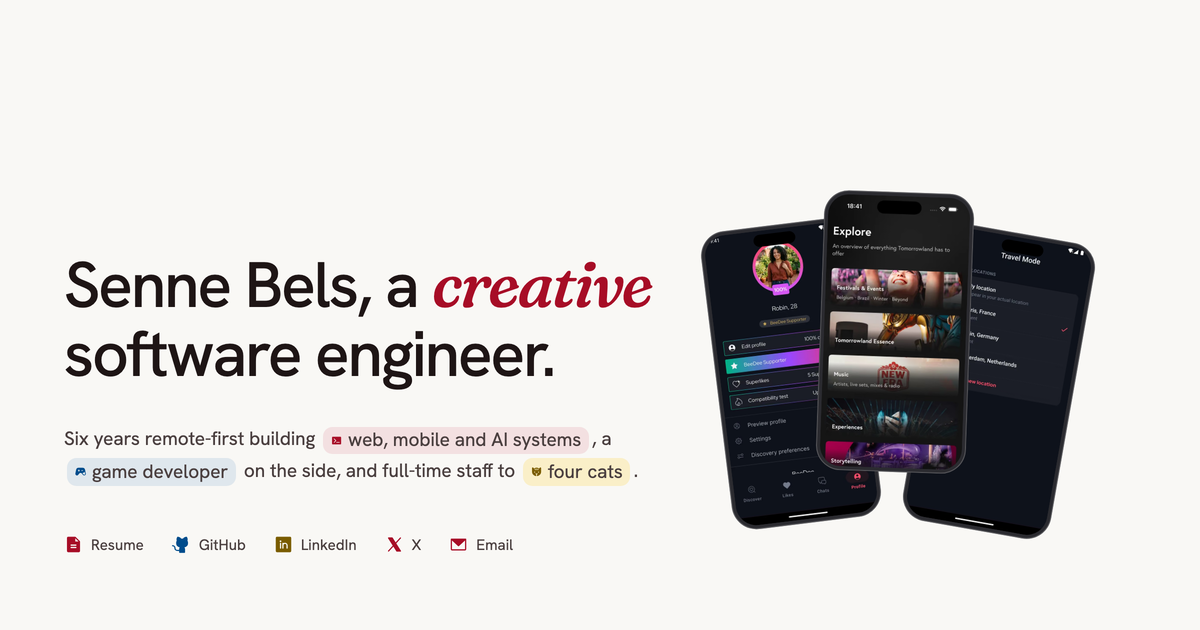
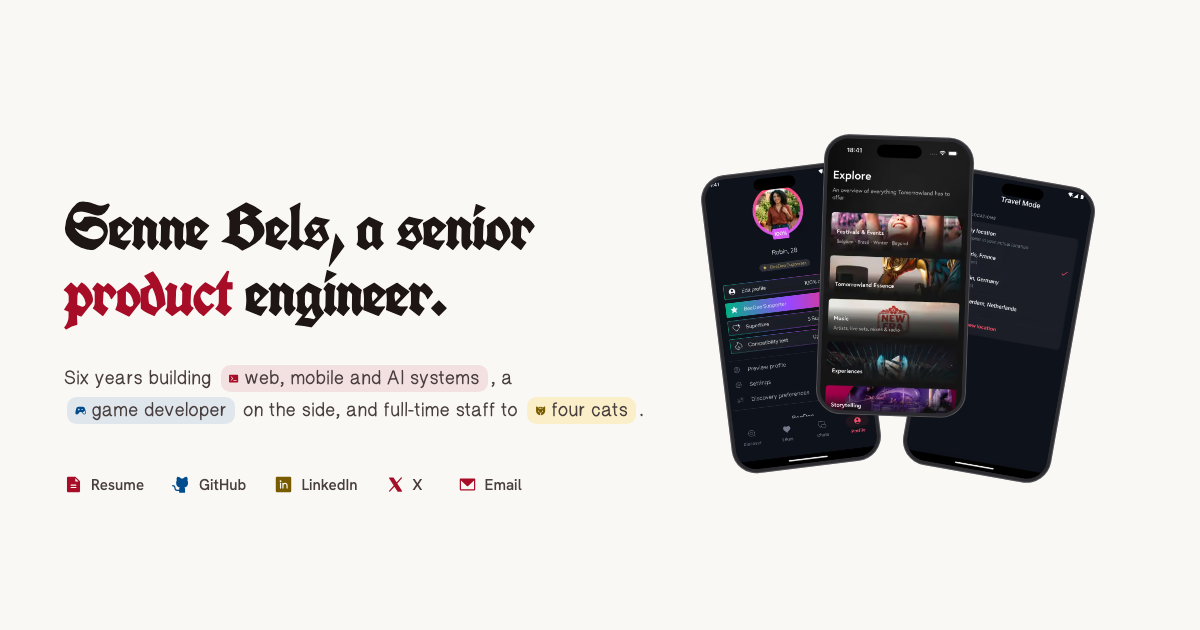
Headline title "Senior product engineer"; PostHog through a first-party proxy
- jobTitle, home H1, meta titles and descriptions, Person summary, about
  and projects intros and llms.txt now say senior product engineer.
  Six years stays, backed by the CV (Okapi Works since April 2020).
- New og.png from the current hero; the old one still said "creative
  software engineer".
- PostHog posts to /ingest, rewritten to the EU host, so ad blockers that
  drop *.posthog.com no longer hide visits. skipTrailingSlashRedirect for
  PostHog's slashed endpoints, with an explicit redirect so /about/ still
  goes to /about.

diff --git a/app/data/portfolio.ts b/app/data/portfolio.ts
@@ -5,9 +5,9 @@ import { PROJECTS, projectPath } from "./projects";
 
 export const PERSON = {
   name: "Senne Bels",
-  jobTitle: "Senior Software Engineer",
+  jobTitle: "Senior Product Engineer",
   tagline:
-    "Senior software engineer. I build things people poke at instead of scroll past, and I have been doing it for six years.",
+    "Senior product engineer. I build things people poke at instead of scroll past, and I have been doing it for six years.",
   email: "sennebels@gmail.com",
   locality: "Antwerp",
   country: "BE",
@@ -18,10 +18,10 @@ export const PERSON = {
   relocation: "Open to relocating abroad",
   // Third person, for schema and llms.txt: the sentence an answer engine quotes about him.
   summary:
-    "Senne Bels is a senior software engineer in Antwerp, Belgium. He builds web, mobile and AI products in TypeScript for clients, and builds and runs products of his own: Transita, Keepr, Penfolk, Stadiq and Korf.",
+    "Senne Bels is a senior product engineer in Antwerp, Belgium. He builds web, mobile and AI products in TypeScript for clients, and builds and runs products of his own: Transita, Keepr, Penfolk, Stadiq and Korf.",
   // The one self-contained passage an answer engine can lift verbatim.
   answerBlock:
-    "I’m Senne, a software engineer from Antwerp. I lead frontend on a platform 140,000 people use, and I work on the Tomorrowland app. Six years of this now, for startups and agencies and once for the Flemish government. The rest of my time goes to products of my own.",
+    "I’m Senne, a senior product engineer from Antwerp. I lead frontend on a platform 140,000 people use, and I work on the Tomorrowland app. Six years of this now, for startups and agencies and once for the Flemish government. The rest of my time goes to products of my own.",
 } as const;
 
 

diff --git a/app/components/analytics.tsx b/app/components/analytics.tsx
@@ -42,10 +42,11 @@ export function PostHogAnalytics() {
     if (!KEY) return;
     if (!posthog.__loaded) {
       posthog.init(KEY, {
-        // US project 356563. The fallback used to name the EU host; an unset
-        // env var now reports to US rather than failing visibly. Production
-        // may still override via NEXT_PUBLIC_POSTHOG_HOST=https://us.i.posthog.com.
-        api_host: process.env.NEXT_PUBLIC_POSTHOG_HOST ?? "https://us.i.posthog.com",
+        // First-party proxy (see next.config.mjs), so ad blockers that
+        // drop *.posthog.com still let the pageview through. ui_host keeps
+        // toolbar links pointing at the real PostHog app.
+        api_host: "/ingest",
+        ui_host: "https://eu.posthog.com",
         // Nothing is written to the visitor's device: no cookie, no
         // localStorage, no sessionStorage. So there is no consent gate and
         // every visitor is counted, not just the ones who would accept one.

diff --git a/app/layout.tsx b/app/layout.tsx
@@ -26,7 +26,7 @@ const fraunces = Fraunces({
 const TITLE = `${PERSON.name}, ${PERSON.jobTitle}`;
 /** Kept under 160 characters: past that, Google truncates it in the result. */
 const DESCRIPTION =
-  "Senior software engineer in Antwerp. Six years remote-first building web, mobile and AI systems in TypeScript, for Tomorrowland, Kaedim and Flanders.";
+  "Senior product engineer in Antwerp. Six years remote-first building web, mobile and AI products in TypeScript, for Tomorrowland, Kaedim and Flanders.";
 
 export const metadata: Metadata = {
   metadataBase: new URL("https://sennebels.com"),
@@ -36,6 +36,7 @@ export const metadata: Metadata = {
   },
   description: DESCRIPTION,
   keywords: [
+    "Senior Product Engineer",
     "Senior Software Engineer",
     "Full-Stack Engineer",
     "AI Engineer",

diff --git a/app/projects/page.tsx b/app/projects/page.tsx
@@ -52,7 +52,7 @@ export default function ProjectsPage() {
             </Rise>
             <Rise>
               <p className="max-w-[60ch] text-lede leading-[1.7] text-ink-2">
-                I’m Senne Bels, a software engineer in Antwerp. Alongside client work, I build and run my own products, from the
+                I’m Senne Bels, a senior product engineer in Antwerp. Alongside client work, I build and run my own products, from the
                 first commit to the support inbox. Each page below covers the problem, what I built and where the product stands
                 today.
               </p>

diff --git a/app/about/page.tsx b/app/about/page.tsx
@@ -31,7 +31,7 @@ const TITLE = "About";
 // answerBlock runs to 279 characters, which a result truncates. This is
 // the same claim inside the ~155 that actually renders.
 const DESCRIPTION =
-  "Senne Bels, software engineer in Antwerp. Frontend lead on a platform used by 140,000 people, and six years of web, mobile and AI work behind that.";
+  "Senne Bels, senior product engineer in Antwerp. Frontend lead on a platform used by 140,000 people, and six years of web, mobile and AI work behind that.";
 
 export const metadata: Metadata = {
   title: TITLE,

diff --git a/app/page.tsx b/app/page.tsx
@@ -64,9 +64,8 @@ function Hero() {
       <Stagger className="flex flex-col gap-9 lg:flex-1">
         <Rise>
           <h1 className="max-w-[17ch] font-unifraktur text-display font-bold">
-            {PERSON.name}, a{" "}
-            <span className="text-tone-red">creative</span> software
-            engineer.
+            {PERSON.name}, a senior{" "}
+            <span className="text-tone-red">product</span> engineer.
           </h1>
         </Rise>
 
